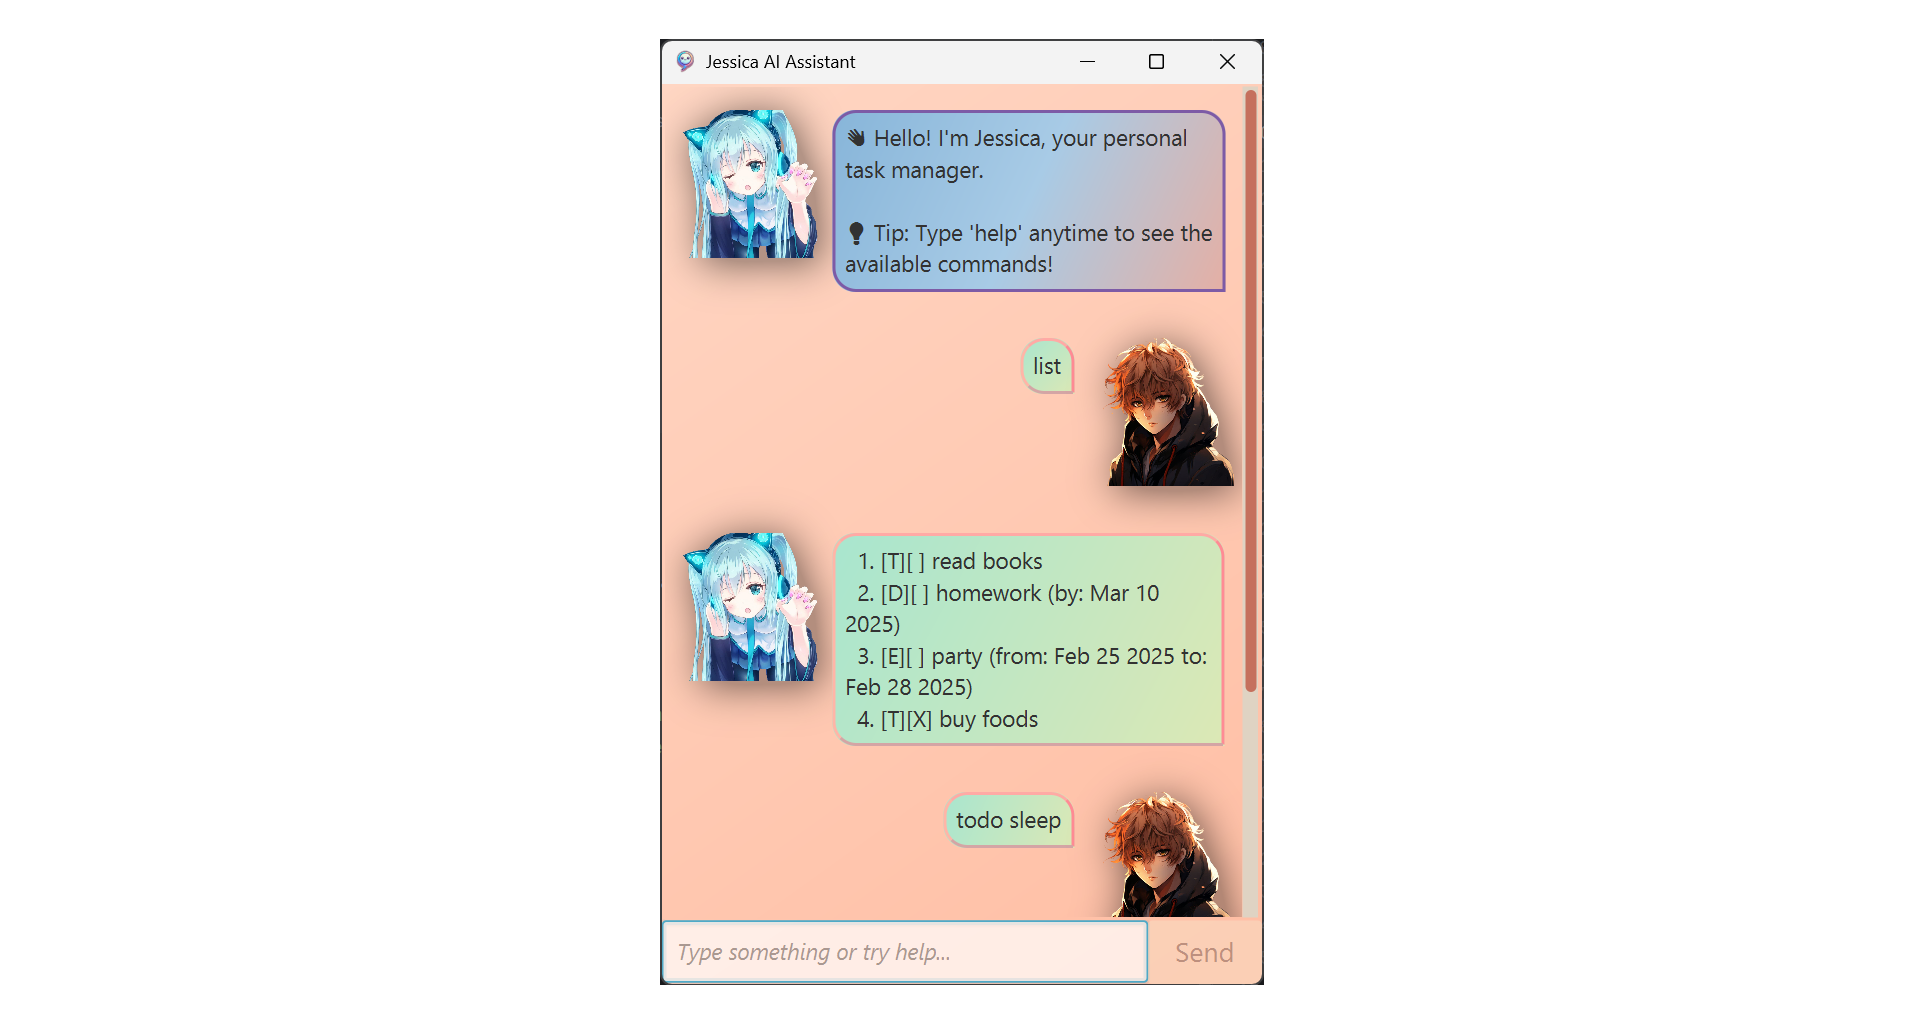
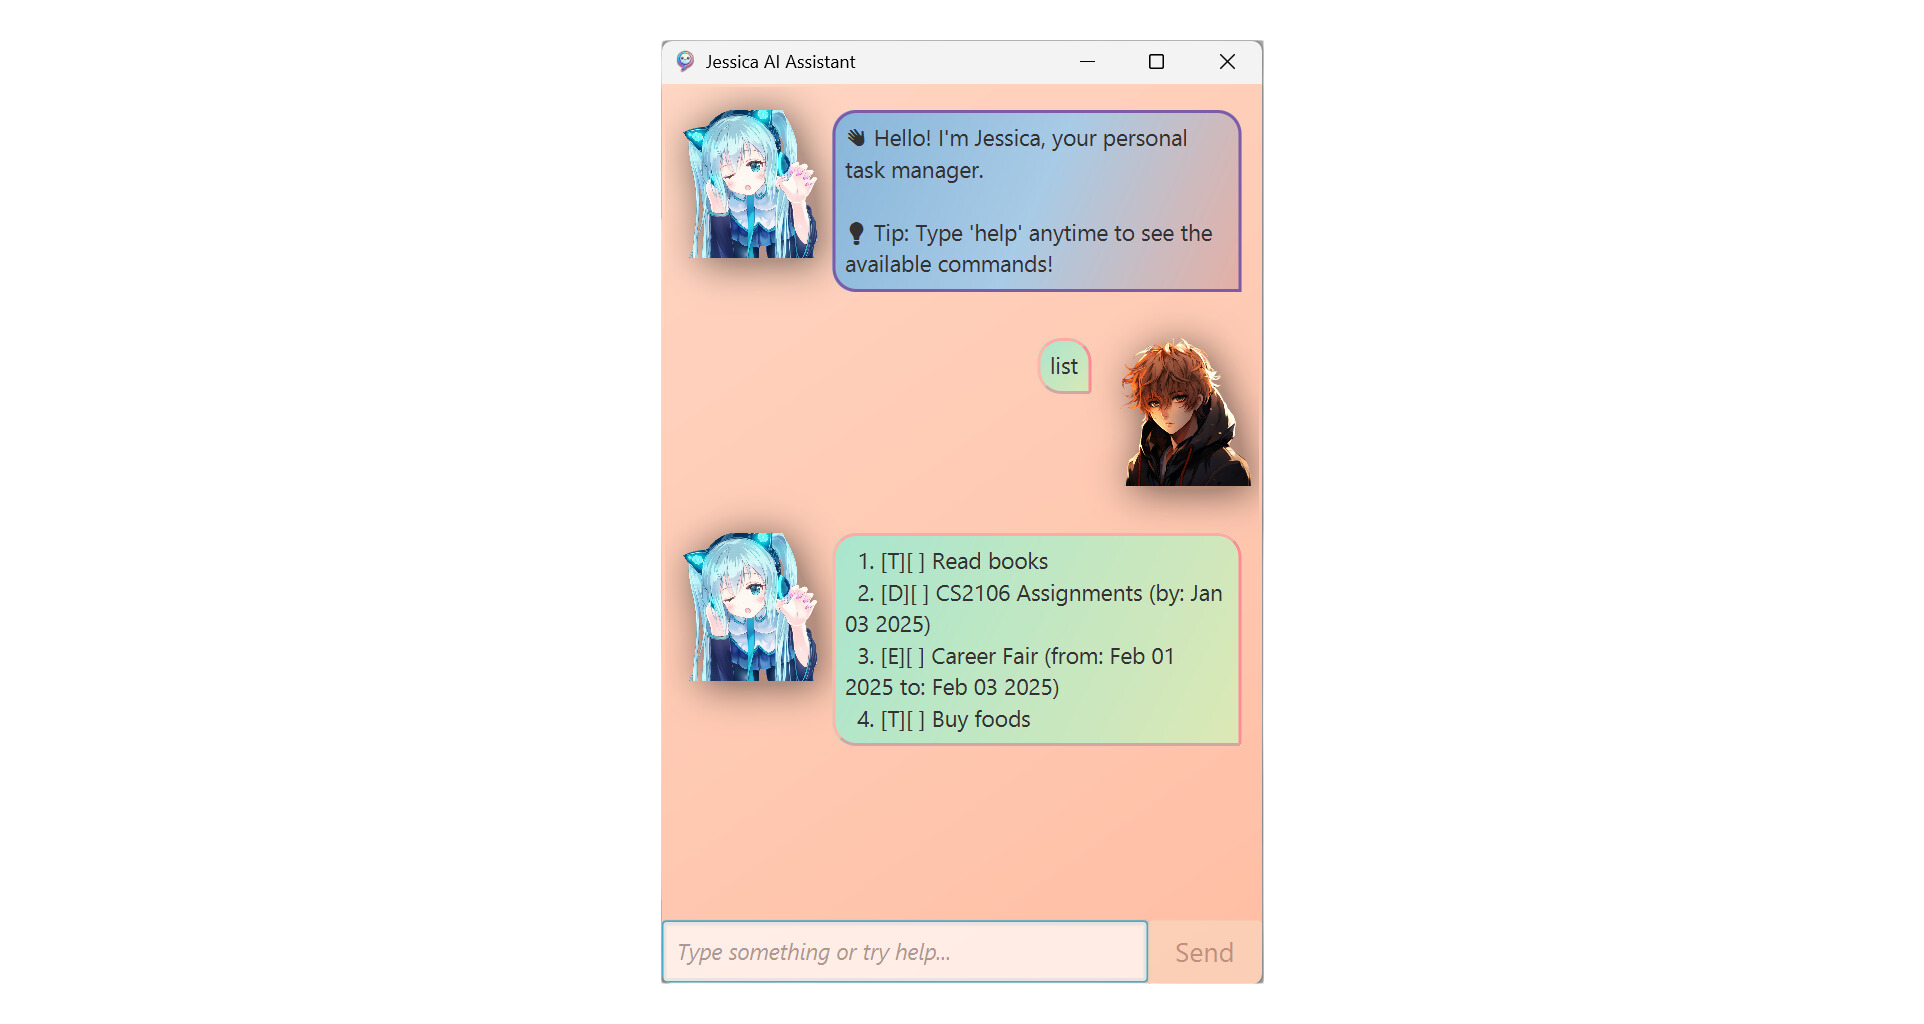
Set up java configuration

Changed region(s): [[0.4366, 0.0938, 0.6549, 0.9062], [0.343, 0.9375, 0.3742, 0.9688], [0.343, 0.0312, 0.3742, 0.0625]]

diff --git a/src/main/java/jessica/Help.java b/src/main/java/jessica/Help.java
@@ -34,8 +34,8 @@ public class Help {
     }
 
     public static String chatbotHello() {
-        return "👋 Hello! I'm Jessica, your personal task manager.\n"
-                + "\n💡 Tip: Type 'help' anytime to see the available commands!";
+        return "Hello! I'm Jessica, your personal task manager.\n"
+                +"\nTip: Type 'help' anytime to see the available commands!";
     }
 }
 
